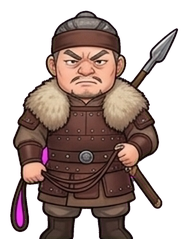
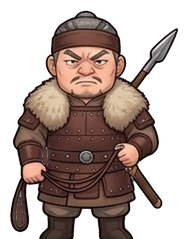
미니맵 점 크기 키우고 부여·동예 초상화 배경 잔재 제거
- 미니맵의 NPC 점(3~4px)과 플레이어 점(4~5px)이 파일마다 제각각이었던
  것을 5px/6px로 통일해 눈에 더 잘 띄게 키움.
- 부여 사람 초상화: 왼쪽 실루엣 테두리를 따라 가늘게 번져 있던 마젠타
  색조(크로마키 배경이 살짝 남은 것)와 허리춤의 마젠타색 장식을 주변
  가죽 톤에 맞춰 지움.
- 동예 사람 초상화: 활 안쪽 빈 공간이 투명 처리가 안 돼 살구색으로
  채워져 있던 것을 투명하게 뚫음.

Changed region(s): [[0.0529, 0.7908, 0.1323, 0.9665], [0.2116, 0.6151, 0.2646, 0.7029], [0.6878, 0.7322, 0.7143, 0.7615]]

diff --git a/www/ch2.html b/www/ch2.html
@@ -1659,14 +1659,14 @@ function drawMinimap(){
   for (const n of ZONES[World.zone].npcs){
     miniCtx.fillStyle = '#c23b3b';
     miniCtx.beginPath();
-    miniCtx.arc(n.x*sx, n.y*sy, 4, 0, Math.PI*2);
+    miniCtx.arc(n.x*sx, n.y*sy, 5, 0, Math.PI*2);
     miniCtx.fill();
   }
   miniCtx.fillStyle = '#3d84e6';
   miniCtx.strokeStyle = '#ffffff';
   miniCtx.lineWidth = 1.2;
   miniCtx.beginPath();
-  miniCtx.arc(World.px*sx, World.py*sy, 5, 0, Math.PI*2);
+  miniCtx.arc(World.px*sx, World.py*sy, 6, 0, Math.PI*2);
   miniCtx.fill();
   miniCtx.stroke();
 }

diff --git a/www/ch2b.html b/www/ch2b.html
@@ -1600,14 +1600,14 @@ function drawMinimap(){
   for (const n of ZONES[World.zone].npcs){
     miniCtx.fillStyle = '#c23b3b';
     miniCtx.beginPath();
-    miniCtx.arc(n.x*sx, n.y*sy, 4, 0, Math.PI*2);
+    miniCtx.arc(n.x*sx, n.y*sy, 5, 0, Math.PI*2);
     miniCtx.fill();
   }
   miniCtx.fillStyle = '#3d84e6';
   miniCtx.strokeStyle = '#ffffff';
   miniCtx.lineWidth = 1.2;
   miniCtx.beginPath();
-  miniCtx.arc(World.px*sx, World.py*sy, 5, 0, Math.PI*2);
+  miniCtx.arc(World.px*sx, World.py*sy, 6, 0, Math.PI*2);
   miniCtx.fill();
   miniCtx.stroke();
 }

diff --git a/www/ch5.html b/www/ch5.html
@@ -1639,14 +1639,14 @@ function drawMinimap(){
   for (const n of ZONES[World.zone].npcs){
     miniCtx.fillStyle = '#c23b3b';
     miniCtx.beginPath();
-    miniCtx.arc(n.x*sx, n.y*sy, 4, 0, Math.PI*2);
+    miniCtx.arc(n.x*sx, n.y*sy, 5, 0, Math.PI*2);
     miniCtx.fill();
   }
   miniCtx.fillStyle = '#3d84e6';
   miniCtx.strokeStyle = '#ffffff';
   miniCtx.lineWidth = 1.2;
   miniCtx.beginPath();
-  miniCtx.arc(World.px*sx, World.py*sy, 5, 0, Math.PI*2);
+  miniCtx.arc(World.px*sx, World.py*sy, 6, 0, Math.PI*2);
   miniCtx.fill();
   miniCtx.stroke();
 }

diff --git a/www/byeokrando.html b/www/byeokrando.html
@@ -1471,14 +1471,14 @@ function drawMinimap(){
   for (const n of ZONES[World.zone].npcs){
     miniCtx.fillStyle = '#8a2f2f';
     miniCtx.beginPath();
-    miniCtx.arc(n.x*sx, n.y*sy, 3, 0, Math.PI*2);
+    miniCtx.arc(n.x*sx, n.y*sy, 5, 0, Math.PI*2);
     miniCtx.fill();
   }
   miniCtx.fillStyle = '#2f6fbf';
   miniCtx.strokeStyle = '#ffffff';
   miniCtx.lineWidth = 1;
   miniCtx.beginPath();
-  miniCtx.arc(World.px*sx, World.py*sy, 4, 0, Math.PI*2);
+  miniCtx.arc(World.px*sx, World.py*sy, 6, 0, Math.PI*2);
   miniCtx.fill();
   miniCtx.stroke();
 }

diff --git a/www/ch0.html b/www/ch0.html
@@ -1346,14 +1346,14 @@ function drawMinimap(){
   for (const n of ZONES[World.zone].npcs){
     miniCtx.fillStyle = '#8a2f2f';
     miniCtx.beginPath();
-    miniCtx.arc(n.x*sx, n.y*sy, 3, 0, Math.PI*2);
+    miniCtx.arc(n.x*sx, n.y*sy, 5, 0, Math.PI*2);
     miniCtx.fill();
   }
   miniCtx.fillStyle = '#2f6fbf';
   miniCtx.strokeStyle = '#ffffff';
   miniCtx.lineWidth = 1;
   miniCtx.beginPath();
-  miniCtx.arc(World.px*sx, World.py*sy, 4, 0, Math.PI*2);
+  miniCtx.arc(World.px*sx, World.py*sy, 6, 0, Math.PI*2);
   miniCtx.fill();
   miniCtx.stroke();
 }

diff --git a/www/ch1.html b/www/ch1.html
@@ -1429,14 +1429,14 @@ function drawMinimap(){
   for (const n of ZONES[World.zone].npcs){
     miniCtx.fillStyle = '#8a2f2f';
     miniCtx.beginPath();
-    miniCtx.arc(n.x*sx, n.y*sy, 3, 0, Math.PI*2);
+    miniCtx.arc(n.x*sx, n.y*sy, 5, 0, Math.PI*2);
     miniCtx.fill();
   }
   miniCtx.fillStyle = '#2f6fbf';
   miniCtx.strokeStyle = '#ffffff';
   miniCtx.lineWidth = 1;
   miniCtx.beginPath();
-  miniCtx.arc(World.px*sx, World.py*sy, 4, 0, Math.PI*2);
+  miniCtx.arc(World.px*sx, World.py*sy, 6, 0, Math.PI*2);
   miniCtx.fill();
   miniCtx.stroke();
 }

diff --git a/www/ch3.html b/www/ch3.html
@@ -1454,14 +1454,14 @@ function drawMinimap(){
   for (const n of ZONES[World.zone].npcs){
     miniCtx.fillStyle = '#8a2f2f';
     miniCtx.beginPath();
-    miniCtx.arc(n.x*sx, n.y*sy, 3, 0, Math.PI*2);
+    miniCtx.arc(n.x*sx, n.y*sy, 5, 0, Math.PI*2);
     miniCtx.fill();
   }
   miniCtx.fillStyle = '#2f6fbf';
   miniCtx.strokeStyle = '#ffffff';
   miniCtx.lineWidth = 1;
   miniCtx.beginPath();
-  miniCtx.arc(World.px*sx, World.py*sy, 4, 0, Math.PI*2);
+  miniCtx.arc(World.px*sx, World.py*sy, 6, 0, Math.PI*2);
   miniCtx.fill();
   miniCtx.stroke();
 }

diff --git a/www/ch4.html b/www/ch4.html
@@ -1632,14 +1632,14 @@ function drawMinimap(){
   for (const n of ZONES[World.zone].npcs){
     miniCtx.fillStyle = '#8a2f2f';
     miniCtx.beginPath();
-    miniCtx.arc(n.x*sx, n.y*sy, 3, 0, Math.PI*2);
+    miniCtx.arc(n.x*sx, n.y*sy, 5, 0, Math.PI*2);
     miniCtx.fill();
   }
   miniCtx.fillStyle = '#2f6fbf';
   miniCtx.strokeStyle = '#ffffff';
   miniCtx.lineWidth = 1;
   miniCtx.beginPath();
-  miniCtx.arc(World.px*sx, World.py*sy, 4, 0, Math.PI*2);
+  miniCtx.arc(World.px*sx, World.py*sy, 6, 0, Math.PI*2);
   miniCtx.fill();
   miniCtx.stroke();
 }

diff --git a/www/ch6.html b/www/ch6.html
@@ -1558,14 +1558,14 @@ function drawMinimap(){
   for (const n of ZONES[World.zone].npcs){
     miniCtx.fillStyle = '#8a2f2f';
     miniCtx.beginPath();
-    miniCtx.arc(n.x*sx, n.y*sy, 3, 0, Math.PI*2);
+    miniCtx.arc(n.x*sx, n.y*sy, 5, 0, Math.PI*2);
     miniCtx.fill();
   }
   miniCtx.fillStyle = '#2f6fbf';
   miniCtx.strokeStyle = '#ffffff';
   miniCtx.lineWidth = 1;
   miniCtx.beginPath();
-  miniCtx.arc(World.px*sx, World.py*sy, 4, 0, Math.PI*2);
+  miniCtx.arc(World.px*sx, World.py*sy, 6, 0, Math.PI*2);
   miniCtx.fill();
   miniCtx.stroke();
 }

diff --git a/www/gaehang1.html b/www/gaehang1.html
@@ -1508,14 +1508,14 @@ function drawMinimap(){
   for (const n of ZONES[World.zone].npcs){
     miniCtx.fillStyle = '#8a2f2f';
     miniCtx.beginPath();
-    miniCtx.arc(n.x*sx, n.y*sy, 3, 0, Math.PI*2);
+    miniCtx.arc(n.x*sx, n.y*sy, 5, 0, Math.PI*2);
     miniCtx.fill();
   }
   miniCtx.fillStyle = '#2f6fbf';
   miniCtx.strokeStyle = '#ffffff';
   miniCtx.lineWidth = 1;
   miniCtx.beginPath();
-  miniCtx.arc(World.px*sx, World.py*sy, 4, 0, Math.PI*2);
+  miniCtx.arc(World.px*sx, World.py*sy, 6, 0, Math.PI*2);
   miniCtx.fill();
   miniCtx.stroke();
 }

diff --git a/www/gaehang4.html b/www/gaehang4.html
@@ -1448,14 +1448,14 @@ function drawMinimap(){
   for (const n of ZONES[World.zone].npcs){
     miniCtx.fillStyle = '#8a2f2f';
     miniCtx.beginPath();
-    miniCtx.arc(n.x*sx, n.y*sy, 3, 0, Math.PI*2);
+    miniCtx.arc(n.x*sx, n.y*sy, 5, 0, Math.PI*2);
     miniCtx.fill();
   }
   miniCtx.fillStyle = '#2f6fbf';
   miniCtx.strokeStyle = '#ffffff';
   miniCtx.lineWidth = 1;
   miniCtx.beginPath();
-  miniCtx.arc(World.px*sx, World.py*sy, 4, 0, Math.PI*2);
+  miniCtx.arc(World.px*sx, World.py*sy, 6, 0, Math.PI*2);
   miniCtx.fill();
   miniCtx.stroke();
 }

diff --git a/www/gaehang5.html b/www/gaehang5.html
@@ -1514,14 +1514,14 @@ function drawMinimap(){
   for (const n of ZONES[World.zone].npcs){
     miniCtx.fillStyle = '#8a2f2f';
     miniCtx.beginPath();
-    miniCtx.arc(n.x*sx, n.y*sy, 3, 0, Math.PI*2);
+    miniCtx.arc(n.x*sx, n.y*sy, 5, 0, Math.PI*2);
     miniCtx.fill();
   }
   miniCtx.fillStyle = '#2f6fbf';
   miniCtx.strokeStyle = '#ffffff';
   miniCtx.lineWidth = 1;
   miniCtx.beginPath();
-  miniCtx.arc(World.px*sx, World.py*sy, 4, 0, Math.PI*2);
+  miniCtx.arc(World.px*sx, World.py*sy, 6, 0, Math.PI*2);
   miniCtx.fill();
   miniCtx.stroke();
 }
